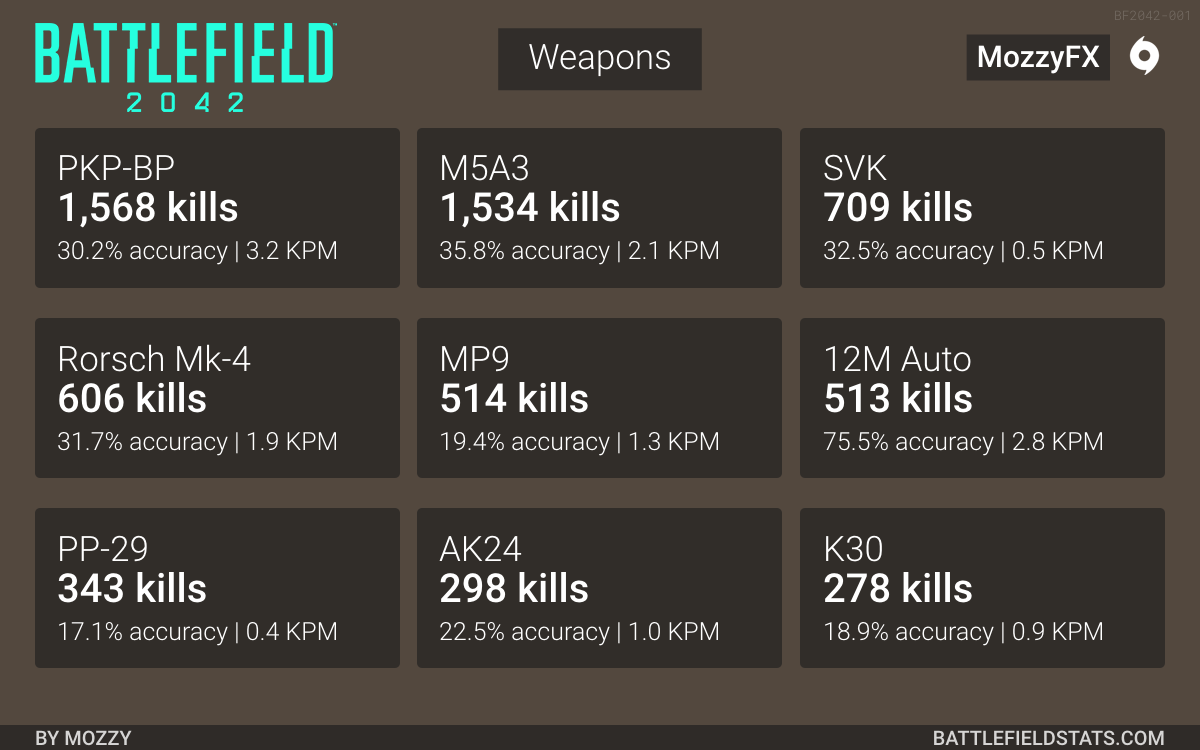
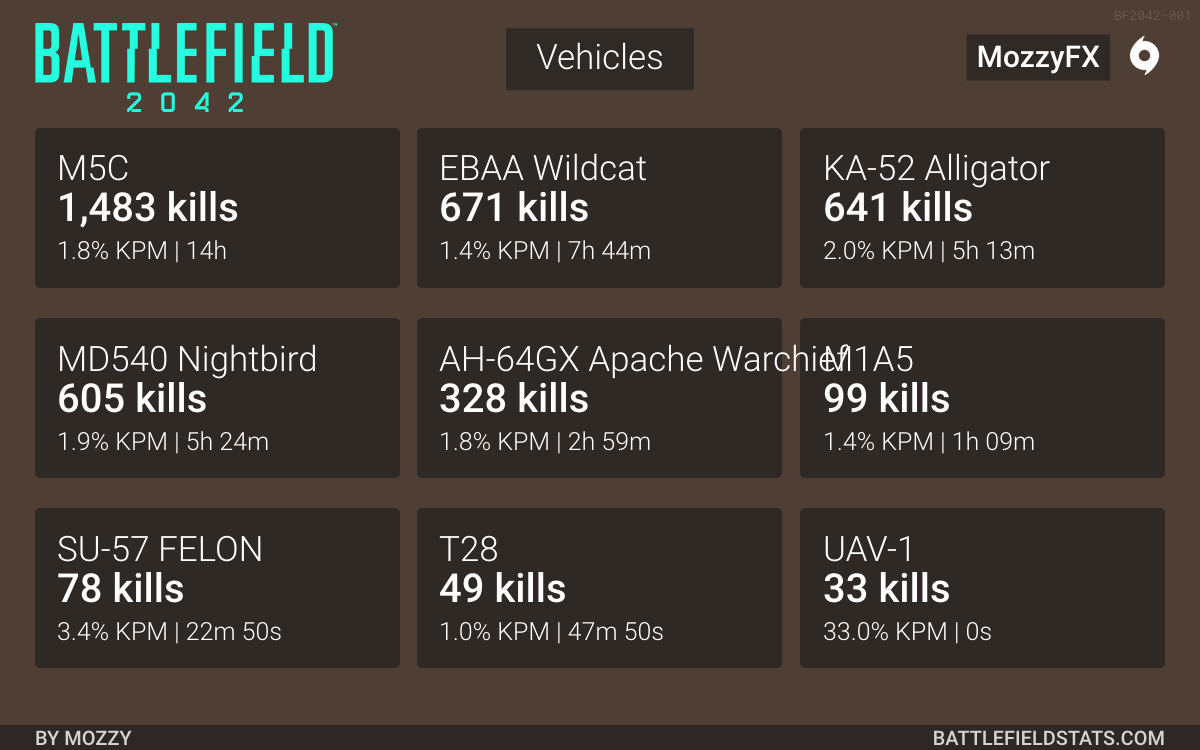
implement vehicles command

diff --git a/commandhandlers/bf2042/vehicles.go b/commandhandlers/bf2042/vehicles.go
@@ -1,0 +1,64 @@
+package commandhandlers
+
+import (
+	"errors"
+	"sort"
+	"strings"
+
+	"github.com/leonlarsson/bfstats-bot-go/canvasdatashapes"
+	create "github.com/leonlarsson/bfstats-bot-go/create/bf2042"
+	"github.com/leonlarsson/bfstats-bot-go/datafetchers/bf2042datafetcher"
+	"github.com/leonlarsson/bfstats-bot-go/localization"
+	"github.com/leonlarsson/bfstats-bot-go/shared"
+	"github.com/leonlarsson/bfstats-bot-go/utils"
+	"github.com/tdewolff/canvas/renderers"
+)
+
+// HandleBF2042VehiclesCommand handles the bf2042 vehicles command.
+func HandleBF2042VehiclesCommand(loc localization.LanguageLocalizer, platform, username string) error {
+	data, err := bf2042datafetcher.FetchBF2042VehiclesData(platform, username)
+	if err != nil {
+		return err
+	}
+
+	if len(data.Data) < 9 {
+		return errors.New(loc.Translate("messages/not_enough_vehicles", map[string]string{"vehicles": string(rune(len(data.Data)))}))
+	}
+
+	// Sort the vehicles by kills
+	sort.Slice(data.Data, func(i, j int) bool {
+		return data.Data[i].Stats.Kills.Value > data.Data[j].Stats.Kills.Value
+	})
+
+	// Build the vehicles slice
+	var vehicles []canvasdatashapes.Stat
+	for _, vehicle := range data.Data {
+		vehicleSlice := canvasdatashapes.Stat{
+			Name:  strings.TrimSpace(vehicle.Metadata.Name),
+			Value: loc.Translate("stats/title/x_kills_short", map[string]string{"kills": loc.FormatInt(vehicle.Stats.Kills.Value)}),
+			Extra: loc.Translate("stats/title/x_kpm_and_time", map[string]string{"kpm": loc.FormatPercent(vehicle.Stats.KillsPerMinute.Value, 1), "time": vehicle.Stats.TimePlayed.DisplayValue}),
+		}
+		vehicles = append(vehicles, vehicleSlice)
+	}
+
+	// Create the image
+	imageData := canvasdatashapes.BF2042VehiclesCanvasData{
+		BaseData: canvasdatashapes.BaseData{
+			Identifier: "BF2042-001",
+			Username:   username,
+			Platform:   utils.TRNPlatformNameToInt(platform),
+			Meta: canvasdatashapes.Meta{
+				Game:    "Battlefield 2042",
+				Segment: "Vehicles",
+			},
+		},
+		Vehicles: vehicles,
+	}
+
+	c, _ := create.CreateBF2042VehiclesImage(imageData, shared.SolidBackground)
+	if err := renderers.Write("render.png", c); err != nil {
+		panic(err)
+	}
+
+	return nil
+}

diff --git a/datafetchers/bf2042datafetcher/vehicles.go b/datafetchers/bf2042datafetcher/vehicles.go
@@ -1,0 +1,59 @@
+package bf2042datafetcher
+
+import (
+	"encoding/json"
+	"fmt"
+	"net/http"
+	"os"
+
+	"github.com/leonlarsson/bfstats-bot-go/utils"
+)
+
+type trnVehiclesResponse struct {
+	Data []struct {
+		Type       string
+		Attributes struct {
+			Vehicle     string
+			CategoryKey string
+		}
+		Metadata struct {
+			Name     string
+			Category string
+		}
+		Stats struct {
+			TimePlayed     trnVehicleBasicStat[int]
+			Kills          trnVehicleBasicStat[int]
+			KillsPerMinute trnVehicleBasicStat[float64]
+		}
+	}
+}
+
+type trnVehicleBasicStat[T any] struct {
+	Value        T
+	DisplayValue string
+	Percentile   float64
+}
+
+func FetchBF2042VehiclesData(platform, username string) (trnVehiclesResponse, error) {
+	var trnResponse trnVehiclesResponse
+
+	url := utils.TRNBF2042VehiclesURL(platform, username)
+
+	req, _ := http.NewRequest("GET", url, nil)
+	req.Header.Set("TRN-Internal-Api-Key", os.Getenv("TRN_API_KEY"))
+	res, err := http.DefaultClient.Do(req)
+	if err != nil {
+		return trnResponse, err
+	}
+	defer res.Body.Close()
+
+	if res.StatusCode != 200 {
+		return trnResponse, fmt.Errorf("API returned a non-200 status code: %d", res.StatusCode)
+	}
+
+	if err := json.NewDecoder(res.Body).Decode(&trnResponse); err != nil {
+		return trnResponse, err
+	}
+
+	return trnResponse, nil
+}

diff --git a/create/bf2042/vehicles.go b/create/bf2042/vehicles.go
@@ -1,0 +1,15 @@
+package create
+
+import (
+	"github.com/leonlarsson/bfstats-bot-go/canvas"
+	"github.com/leonlarsson/bfstats-bot-go/canvasdatashapes"
+	"github.com/leonlarsson/bfstats-bot-go/shared"
+	core "github.com/tdewolff/canvas"
+)
+
+func CreateBF2042VehiclesImage(data canvasdatashapes.BF2042VehiclesCanvasData, style shared.BackgroundFormat) (*core.Canvas, *core.Context) {
+	c, ctx := canvas.BuildBaseCanvas("BF2042", data.BaseData, shared.GridSkeletonType)
+
+	canvas.DrawAllGridStats(ctx, data.Vehicles)
+	return c, ctx
+}

diff --git a/canvasdatashapes/bf2042.go b/canvasdatashapes/bf2042.go
@@ -27,3 +27,9 @@ type BF2042WeaponsCanvasData struct {
 	BaseData `json:"baseData"`
 	Weapons  []Stat `json:"weapons"`
 }
+
+// BF2042VehiclesCanvasData represents the data needed to create a Battlefield 2042 image.
+type BF2042VehiclesCanvasData struct {
+	BaseData `json:"baseData"`
+	Vehicles []Stat `json:"vehicles"`
+}

diff --git a/main.go b/main.go
@@ -20,7 +20,7 @@ func init() {
 func main() {
 	loc := *localization.CreateLocForLanguage("en")
 
-	err := commandhandlers.HandleBF2042WeaponsCommand(loc, "origin", "MozzyFX")
+	err := commandhandlers.HandleBF2042VehiclesCommand(loc, "origin", "MozzyFX")
 	if err != nil {
 		println(err.Error())
 	}
